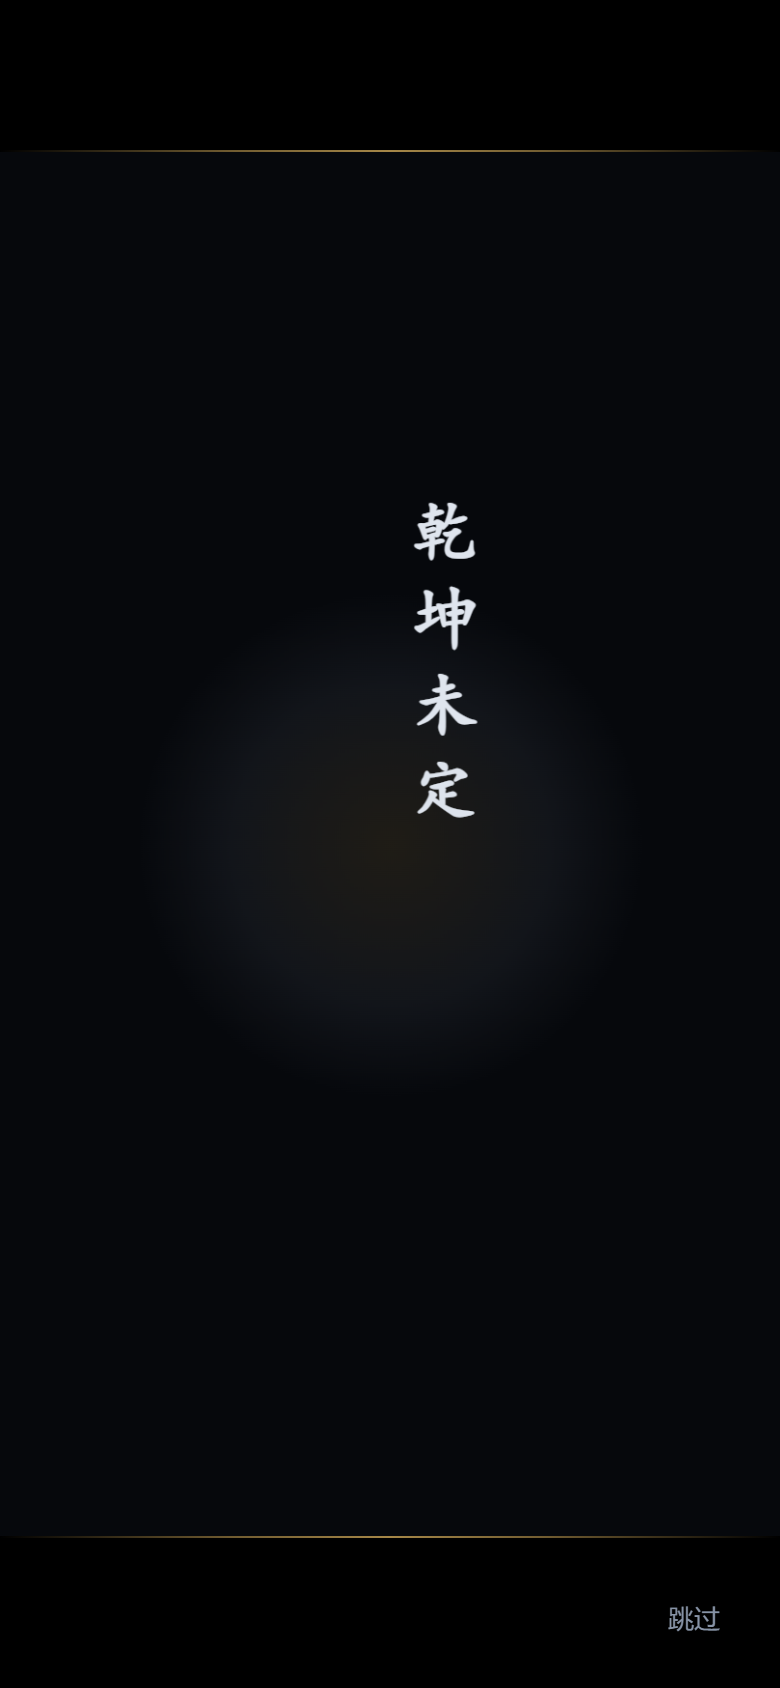
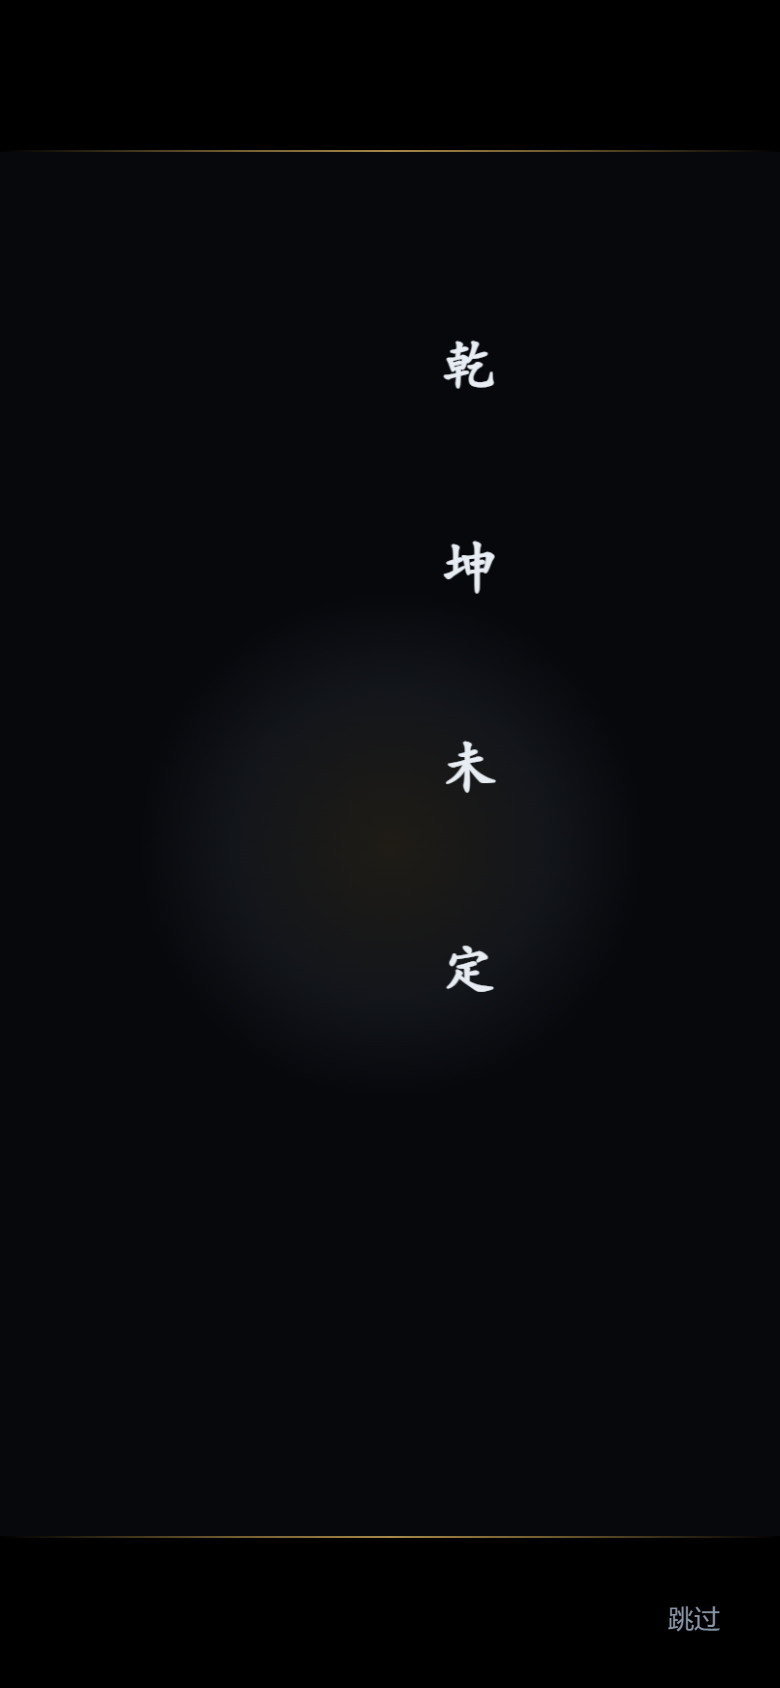
铭言排版改对联式：两列等高（min(46vh,340px)）+ space-between 均匀分布字距（4字/6字同高），两列同字号，中缝金色渐隐细线分隔；E2E 47/47

Changed region(s): [[0.5231, 0.2773, 0.6462, 0.4929], [0.5538, 0.1848, 0.6462, 0.2464], [0.5538, 0.5545, 0.6154, 0.5853]]

diff --git a/index.html b/index.html
@@ -319,11 +319,13 @@ body.xj-lock{overflow:hidden}
 .xj-lb.b{bottom:0;transform-origin:50% 100%}
 .xj-lb.b::after{top:0}
 .xj-head{position:relative;display:flex;flex-direction:column;align-items:center;width:100%}
-.xj-motto{position:absolute;inset:-30px 0;display:flex;flex-direction:row-reverse;align-items:center;justify-content:center;gap:clamp(20px,5.5vw,36px);pointer-events:none}
-.xj-m1,.xj-m2{writing-mode:vertical-rl;text-orientation:upright;font-family:'Kaiti SC','STKaiti','KaiTi','Songti SC','SimSun',serif;color:#dfe5ee}
-.xj-m1 span,.xj-m2 span{opacity:0;transform:translateY(14px);will-change:transform,opacity}
-.xj-m1{font-size:clamp(30px,8.5vw,44px);letter-spacing:.3em;font-weight:600}
-.xj-m2{font-size:clamp(21px,6vw,31px);letter-spacing:.26em;font-weight:600;color:#c6cedb}
+.xj-motto{position:absolute;inset:-20px 0;display:flex;flex-direction:row-reverse;align-items:center;justify-content:center;gap:clamp(24px,6.5vw,44px);pointer-events:none}
+/* 对联式：两列等高、字距 space-between 均匀分布，中缝金线分隔 */
+.xj-m1,.xj-m2{display:flex;flex-direction:column;align-items:center;justify-content:space-between;height:min(46vh,340px);font-family:'Kaiti SC','STKaiti','KaiTi','Songti SC','SimSun',serif;font-weight:600}
+.xj-m1{font-size:clamp(26px,7vw,40px);color:#e8edf4}
+.xj-m2{font-size:clamp(26px,7vw,40px);color:#c6cedb}
+.xj-m1 span,.xj-m2 span{display:block;opacity:0;transform:translateY(14px);will-change:transform,opacity}
+.xj-msep{width:1px;height:min(38vh,280px);background:linear-gradient(180deg,transparent,rgba(207,169,90,.55) 30%,rgba(207,169,90,.55) 70%,transparent);opacity:0;will-change:opacity}
 .xj-eyebrow{font-size:clamp(10px,2.6vw,13px);letter-spacing:.52em;margin-right:-.52em;color:var(--xj-mute);opacity:0;will-change:transform,opacity;margin-bottom:14px}
 .xj-lockup{position:relative;display:flex;flex-direction:column;align-items:center;padding:0 20px;max-width:100vw}
 .xj-title{position:relative;display:flex;justify-content:center;font-family:'Songti SC','STSong','STZhongsong','SimSun',serif;font-size:clamp(30px,8.5vw,64px);font-weight:900;line-height:1.22;letter-spacing:.14em;margin:0;opacity:0;will-change:transform,opacity}
@@ -358,6 +360,7 @@ body.xj-lock{overflow:hidden}
       <div class="xj-head">
         <div class="xj-motto" aria-hidden="true">
           <div class="xj-m1"><span>乾</span><span>坤</span><span>未</span><span>定</span></div>
+          <div class="xj-msep"></div>
           <div class="xj-m2"><span>你</span><span>我</span><span>皆</span><span>是</span><span>黑</span><span>马</span></div>
         </div>
         <div class="xj-eyebrow">二〇二七年 · 春季 / 夏季高考</div>
@@ -383,7 +386,7 @@ body.xj-lock{overflow:hidden}
   var glow = q('.xj-glow'), title = q('.xj-title'), rule = q('.xj-rule'), orn = q('.xj-rule i'),
       sub = q('.xj-sub'), cta = q('.xj-cta'), note = q('.xj-note'), skip = q('.xj-skip'),
       enter = q('#xjEnter'), replay = q('.xj-replay'), eyebrow = q('.xj-eyebrow'),
-      motto = q('.xj-motto'), lbT = q('.xj-lb.t'), lbB = q('.xj-lb.b');
+      motto = q('.xj-motto'), msep = q('.xj-msep'), lbT = q('.xj-lb.t'), lbB = q('.xj-lb.b');
   var KEY = 'xj-splash-seen';
   var reduce = matchMedia('(prefers-reduced-motion: reduce)').matches;
   var E1 = 'cubic-bezier(.16,1,.3,1)';
@@ -432,7 +435,7 @@ body.xj-lock{overflow:hidden}
     a(glow, [{ opacity: 0 }, { opacity: 1 }], { duration: 1800, easing: 'ease-out' });
     a(glow, [{ transform: 'scale(1)' }, { transform: 'scale(1.04)' }, { transform: 'scale(1)' }],
       { duration: 6000, delay: 1800, iterations: Infinity, easing: 'ease-in-out' });
-    /* 铭言：竖排逐字浮现（右列先、左列接力） */
+    /* 铭言：竖排逐字浮现（右列先、左列接力），中缝金线随左列亮起 */
     chars.forEach(function (sp, i) {
       var lineDelay = i < 4 ? 600 + i * 110 : 1900 + (i - 4) * 100;
       a(sp, [
@@ -440,6 +443,7 @@ body.xj-lock{overflow:hidden}
         { opacity: 1, transform: 'translateY(0)' }
       ], { duration: 750, delay: lineDelay, easing: E1, fill: 'both' });
     });
+    a(msep, [{ opacity: 0 }, { opacity: 1 }], { duration: 700, delay: 1700, easing: 'ease-out', fill: 'both' });
     /* 定格后整句退场 */
     a(motto, [
       { opacity: 1, transform: 'scale(1)' },
